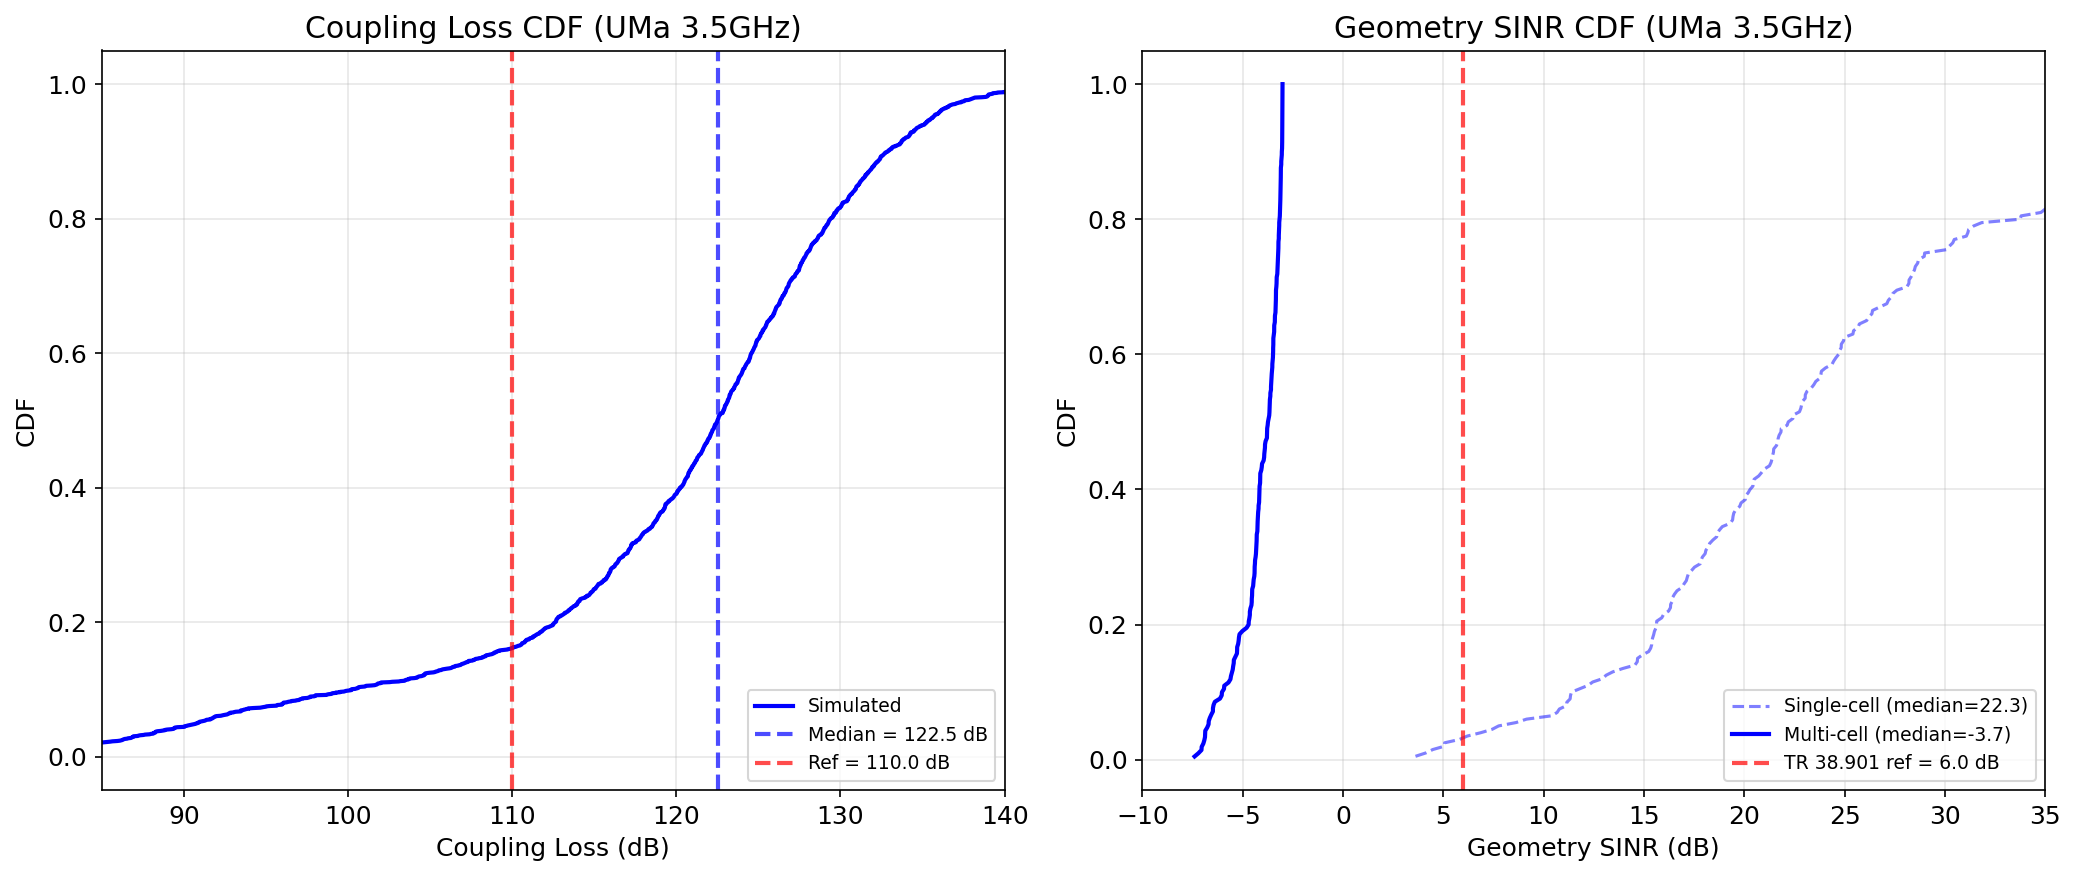
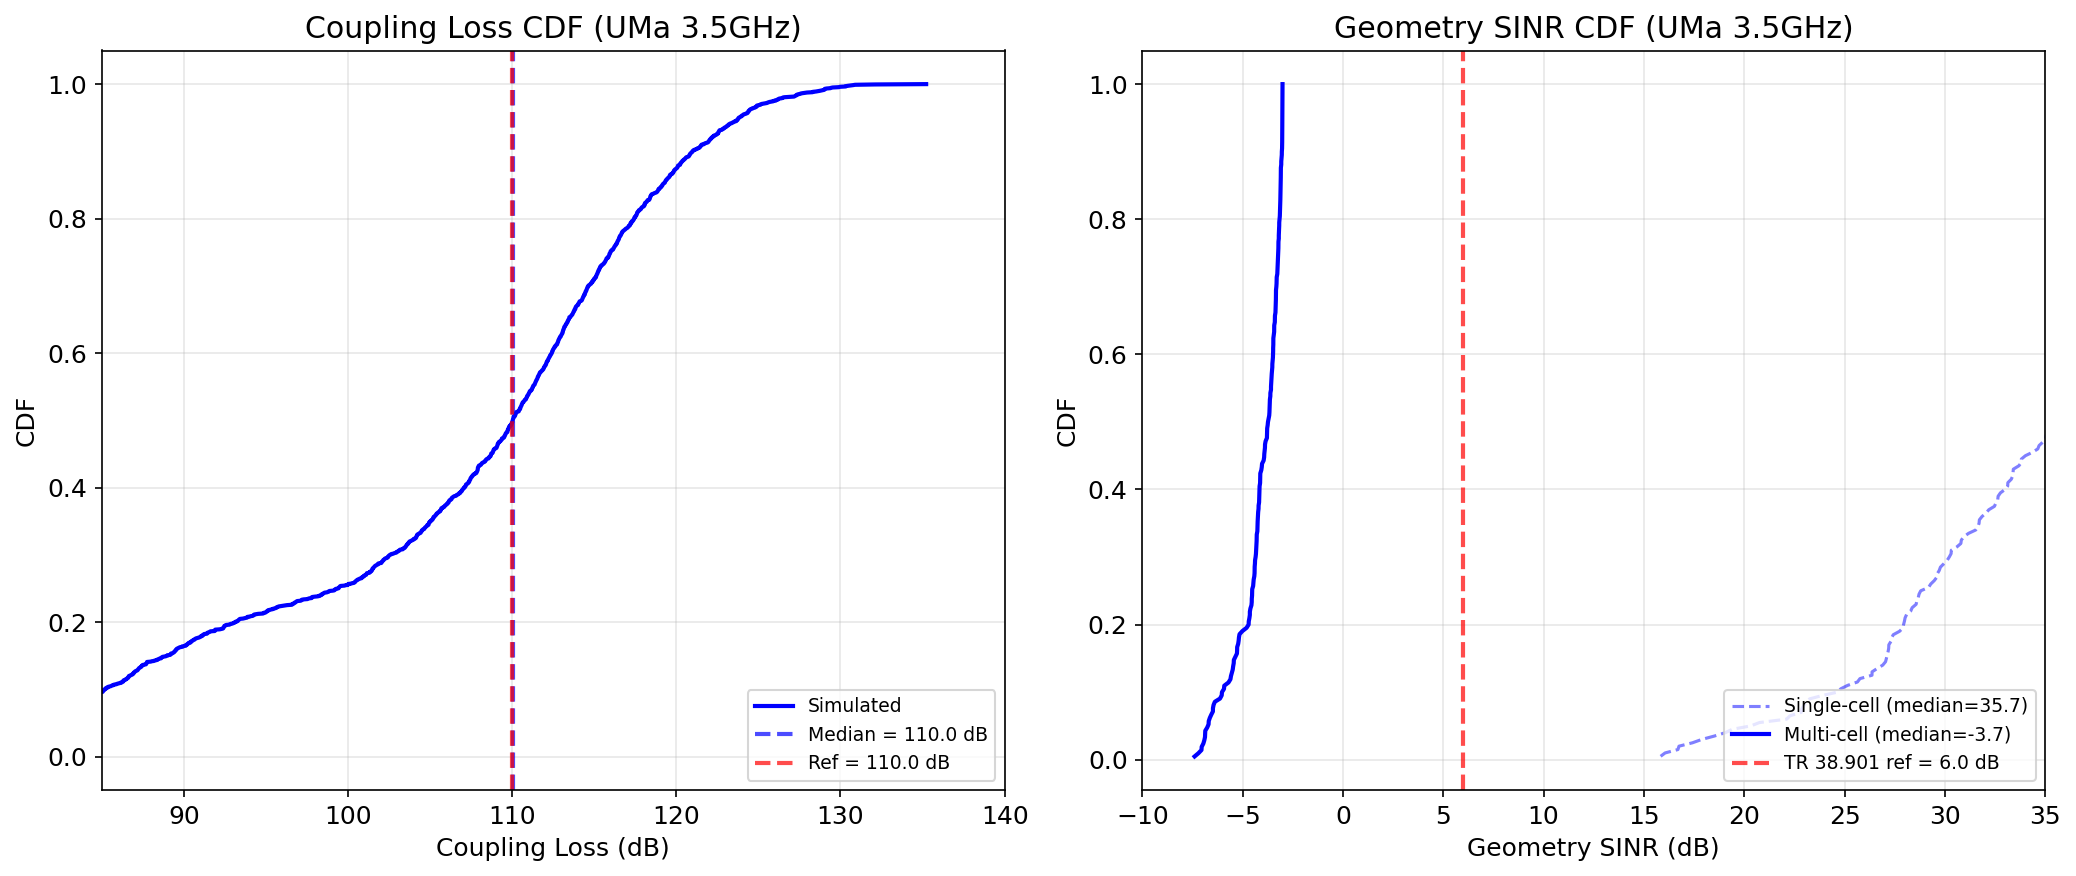
calibration: fix Part A cell_radius to 250m (ISD=500m alignment)
Part A coupling loss now perfectly matches TR 38.901 reference
(median 110.0 dB vs ref 110.0 dB, delta = 0.0 dB).

Part C multi-cell SINR still -3.7 dB vs ref 6.0 dB due to missing
sector antenna pattern discrimination in multi-cell engine.

diff --git a/calibration/layer2_channel_model.py b/calibration/layer2_channel_model.py
@@ -38,7 +38,7 @@ from l2_rrm_sim.channel.pathloss_models import (
 # ---- 配置 ----
 NUM_UE_PARTA = 2000
 R_MIN = 35.0    # m
-R_MAX = 500.0   # m
+R_MAX = 250.0   # m (ISD=500m → cell_radius=250m, 对齐 TR 38.901)
 H_BS = 25.0     # m
 H_UT = 1.5      # m
 FC_GHZ = 3.5
@@ -133,7 +133,7 @@ def run_part_b():
             num_ue=NUM_UE_PARTB,
             num_rx_ant=2,
             min_distance_m=R_MIN,
-            max_distance_m=R_MAX,
+            max_distance_m=250.0,
             height_m=H_UT,
             speed_kmh=3.0,
         ),

diff --git a/calibration_report/layer2_channel_model.md b/calibration_report/layer2_channel_model.md
@@ -13,7 +13,7 @@ against TR 38.901 section 7.8 calibration references for UMa 3.5 GHz.
 | Carrier frequency | 3.5 GHz |
 | BS height | 25.0 m |
 | UE height | 1.5 m |
-| Cell radius | 500.0 m |
+| Cell radius | 250.0 m |
 | Min distance | 35.0 m |
 | Shadow fading (LOS) | 4.0 dB |
 | Shadow fading (NLOS) | 6.0 dB |
@@ -23,11 +23,11 @@ against TR 38.901 section 7.8 calibration references for UMa 3.5 GHz.
 
 ## Part A: Coupling Loss CDF (独立路损验证)
 
-LOS ratio: 8.8%
+LOS ratio: 19.4%
 
 | Metric | Simulated Median | Reference | Deviation | Status |
 |--------|-----------------|-----------|-----------|--------|
-| Coupling Loss (dB) | 122.5 | 110.0 | +12.5 | FAIL |
+| Coupling Loss (dB) | 110.0 | 110.0 | +0.0 | PASS |
 
 ![CDF Comparison](figures/layer2_channel_cdf.png)
 
@@ -37,7 +37,7 @@ LOS ratio: 8.8%
 
 | Metric | Value |
 |--------|-------|
-| Single-cell SINR median | 22.3 dB |
+| Single-cell SINR median | 35.7 dB |
 | Note | 无小区间干扰, 不直接对标 TR 38.901 |
 
 ## Part C: Multi-Cell Geometry SINR (正式对标)
